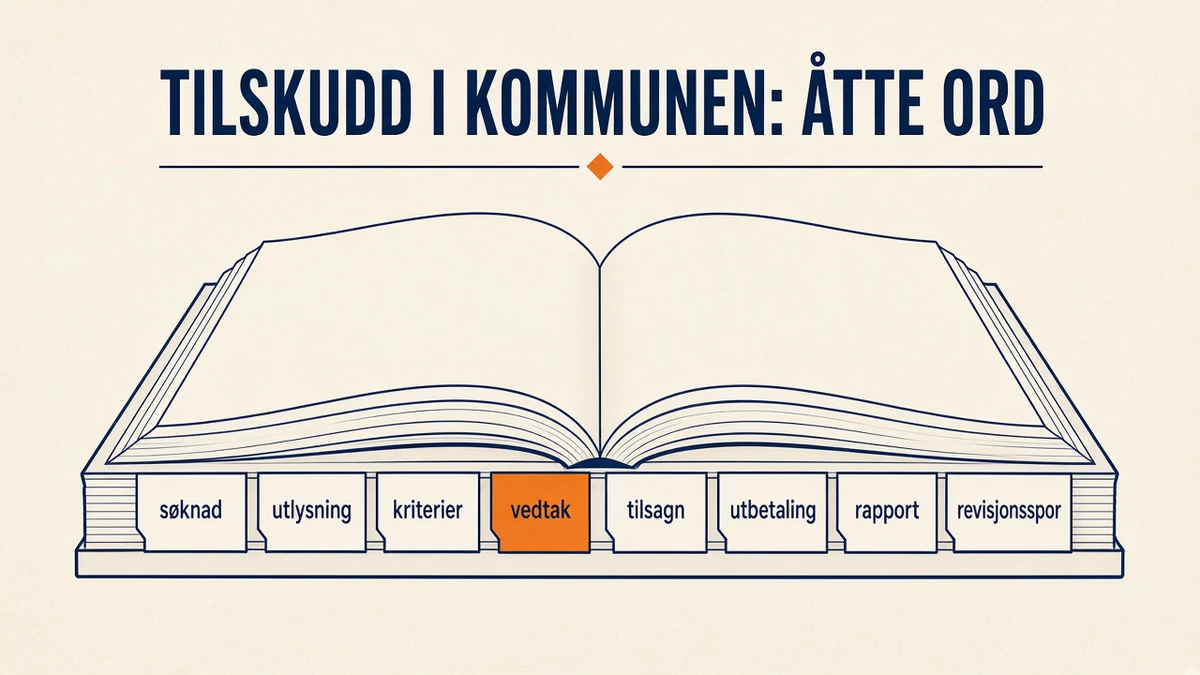
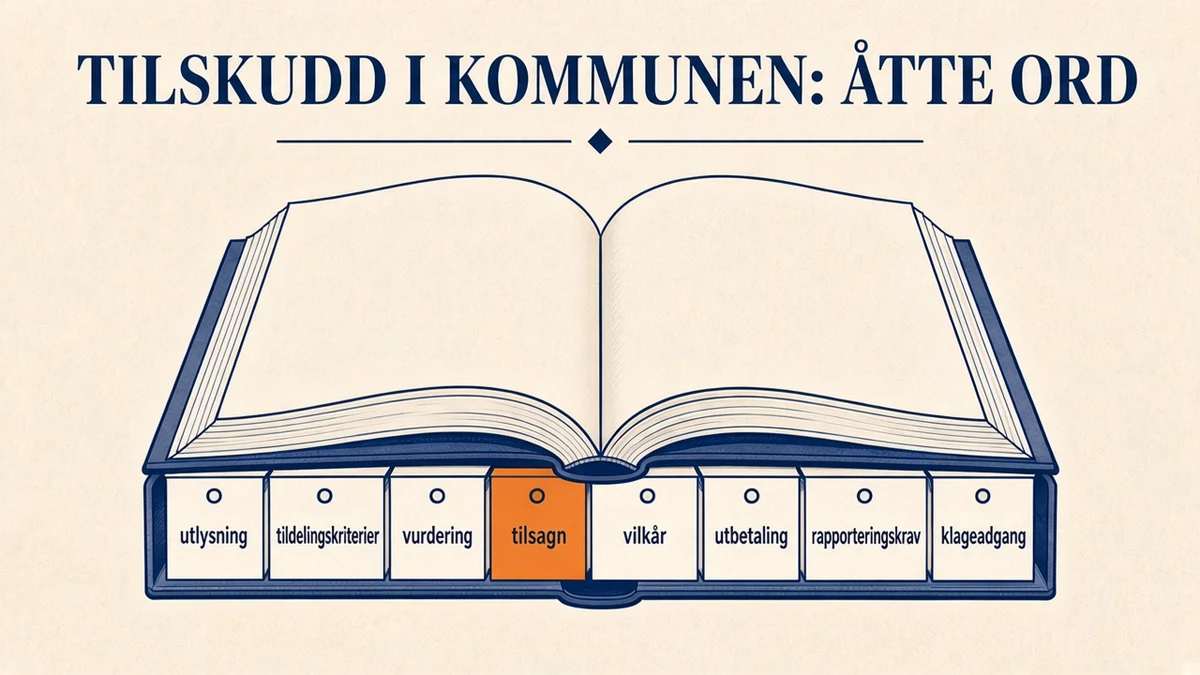
Replace tilskudd-i-kommunen-atte-ord cover and align coverAlt

Changed region(s): [[0.0617, 0.0622, 0.9558, 0.9022]]

diff --git a/src/content/blog/2026-10-22-tilskudd-i-kommunen-atte-ord.md b/src/content/blog/2026-10-22-tilskudd-i-kommunen-atte-ord.md
@@ -8,7 +8,7 @@ author: "Ibrahim Rahmani"
 role: "Grunnlegger, Xala Technologies"
 tag: "Kommune"
 cover: "/images/blog/tilskudd-i-kommunen-atte-ord.webp"
-coverAlt: "Infografikk på kremfarget bakgrunn: en åpen oppslagsbok med faner langs nederkanten, der fanen for vedtak er markert i oransje. Overskrift «TILSKUDD I KOMMUNEN: ÅTTE ORD»."
+coverAlt: '«Infografikk på kremfarget bakgrunn: en åpen oppslagsbok med åtte faner (utlysning, tildelingskriterier, vurdering, tilsagn, vilkår, utbetaling, rapporteringskrav og klageadgang), der fanen for tilsagn er markert i oransje. Overskrift «TILSKUDD I KOMMUNEN: ÅTTE ORD».»'
 keywords:
   - tilskuddsordning
   - tilskuddsbrev
